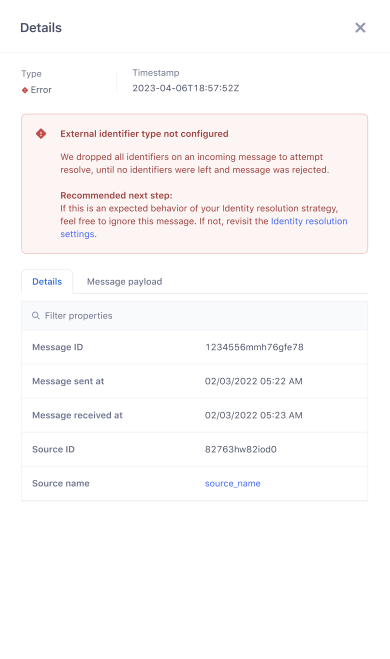
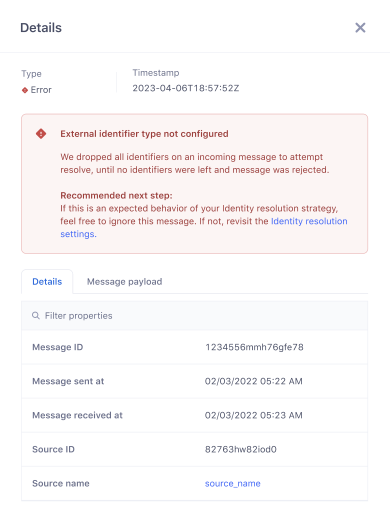
Crop final side sheet screenshot
Claude-Session: https://claude.ai/code/session_01GyDveyFExioA3Uc13BYXMZ

diff --git a/work/profiles-insights/index.html b/work/profiles-insights/index.html
@@ -323,7 +323,7 @@
           <div class="pi-sheet">
             <figure class="pi-shot" data-panel role="tabpanel"><img src="img/sheet-explore-1-crop.png" alt="Side sheet exploration 1: event details as a two-column list under the error message." width="365" height="659" loading="lazy"></figure>
             <figure class="pi-shot" data-panel role="tabpanel" hidden><img src="img/sheet-explore-2-crop.png" alt="Side sheet exploration 2: details grouped under Incoming message, Source and Retry." width="358" height="659" loading="lazy"></figure>
-            <figure class="pi-shot" data-panel role="tabpanel" hidden><img src="img/sheet-final-crop.png" alt="Final side sheet: the error message with a recommended next step, above a scannable table of details." width="390" height="659" loading="lazy"></figure>
+            <figure class="pi-shot" data-panel role="tabpanel" hidden><img src="img/sheet-final-crop.png" alt="Final side sheet: the error message with a recommended next step, above a scannable table of details." width="390" height="515" loading="lazy"></figure>
           </div>
           <ul class="pi-list">
             <li>A table format is the most scannable.</li>
@@ -417,11 +417,11 @@
   <script>
     // Clear review comments that have already been applied.
     try {
-      const applied = ['remove Second sentence', 'I led the design of Profiles insights...', "Profiles is Segment's flagship product It uses a identity resolution system", 'add some shadow', 'remove "implementable"', 'remove all bullet points in this setion', 'Change to "Research insights.“', 'make it smaller', 'add 20px more padding in between the 3 insights', 'use a two-column layout for the personas', 'Can you draw a simple icon or diagram to represent the concept of an overview, with a rough dashboard and locks?', 'Move this entire quote down by about 200 pixels.', 'Use a carousel to show these three screenshots, with tabs for Exploration 1, Exploration 2, and Final design. Use a two-column layout: the screenshot goes on the left, and the three bullet points you have below go on the right.', "Use a carousel, or a tab format here as well, with two columns. The first column would show all the screenshots, and you'd have a tab to navigate around them. On the right, there's a column that shows the text, the descriptions.", 'Move this off by 100 pixels.', 'With out product, Support and Solution engineers reported a 30% Decrease in time it takes to complete profiles observability tasks.', 'remove', 'bigger font size', '20 px more padding below', 'move it up with 80px', 'Further crop these screenshots so that only the screens show up, with no background images and no exploration ones. As for the text in there.', 'Make the image smaller.', "Change the tabs. I don't want buttons.", 'Change to tabs.'];
-      if (!localStorage.getItem('piAppliedCleanup2')) {
+      const applied = ['remove Second sentence', 'I led the design of Profiles insights...', "Profiles is Segment's flagship product It uses a identity resolution system", 'add some shadow', 'remove "implementable"', 'remove all bullet points in this setion', 'Change to "Research insights.“', 'make it smaller', 'add 20px more padding in between the 3 insights', 'use a two-column layout for the personas', 'Can you draw a simple icon or diagram to represent the concept of an overview, with a rough dashboard and locks?', 'Move this entire quote down by about 200 pixels.', 'Use a carousel to show these three screenshots, with tabs for Exploration 1, Exploration 2, and Final design. Use a two-column layout: the screenshot goes on the left, and the three bullet points you have below go on the right.', "Use a carousel, or a tab format here as well, with two columns. The first column would show all the screenshots, and you'd have a tab to navigate around them. On the right, there's a column that shows the text, the descriptions.", 'Move this off by 100 pixels.', 'With out product, Support and Solution engineers reported a 30% Decrease in time it takes to complete profiles observability tasks.', 'remove', 'bigger font size', '20 px more padding below', 'move it up with 80px', 'Further crop these screenshots so that only the screens show up, with no background images and no exploration ones. As for the text in there.', 'Make the image smaller.', "Change the tabs. I don't want buttons.", 'Change to tabs.', 'Crop the screenshot at the bottom a bit, just across the white space, so that it takes up less space.'];
+      if (!localStorage.getItem('piAppliedCleanup3')) {
         const notes = JSON.parse(localStorage.getItem('annotations')) || [];
         localStorage.setItem('annotations', JSON.stringify(notes.filter(n => !applied.includes((n.comment || '').trim()))));
-        localStorage.setItem('piAppliedCleanup2', '1');
+        localStorage.setItem('piAppliedCleanup3', '1');
       }
     } catch {}
     // Review-only: the comment overlay loads locally and on Vercel branch previews, never on the published site.
